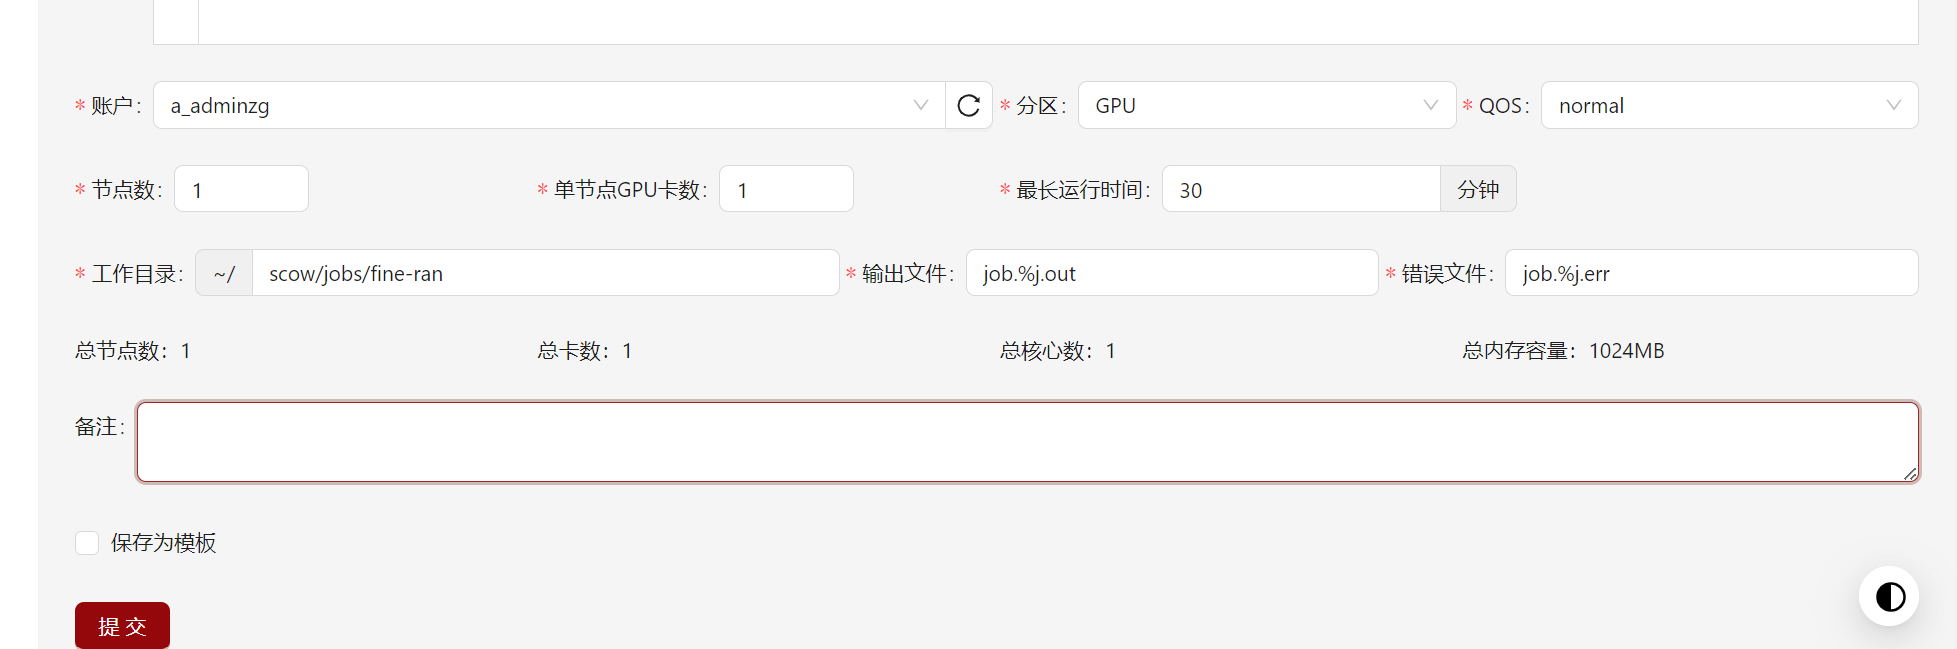
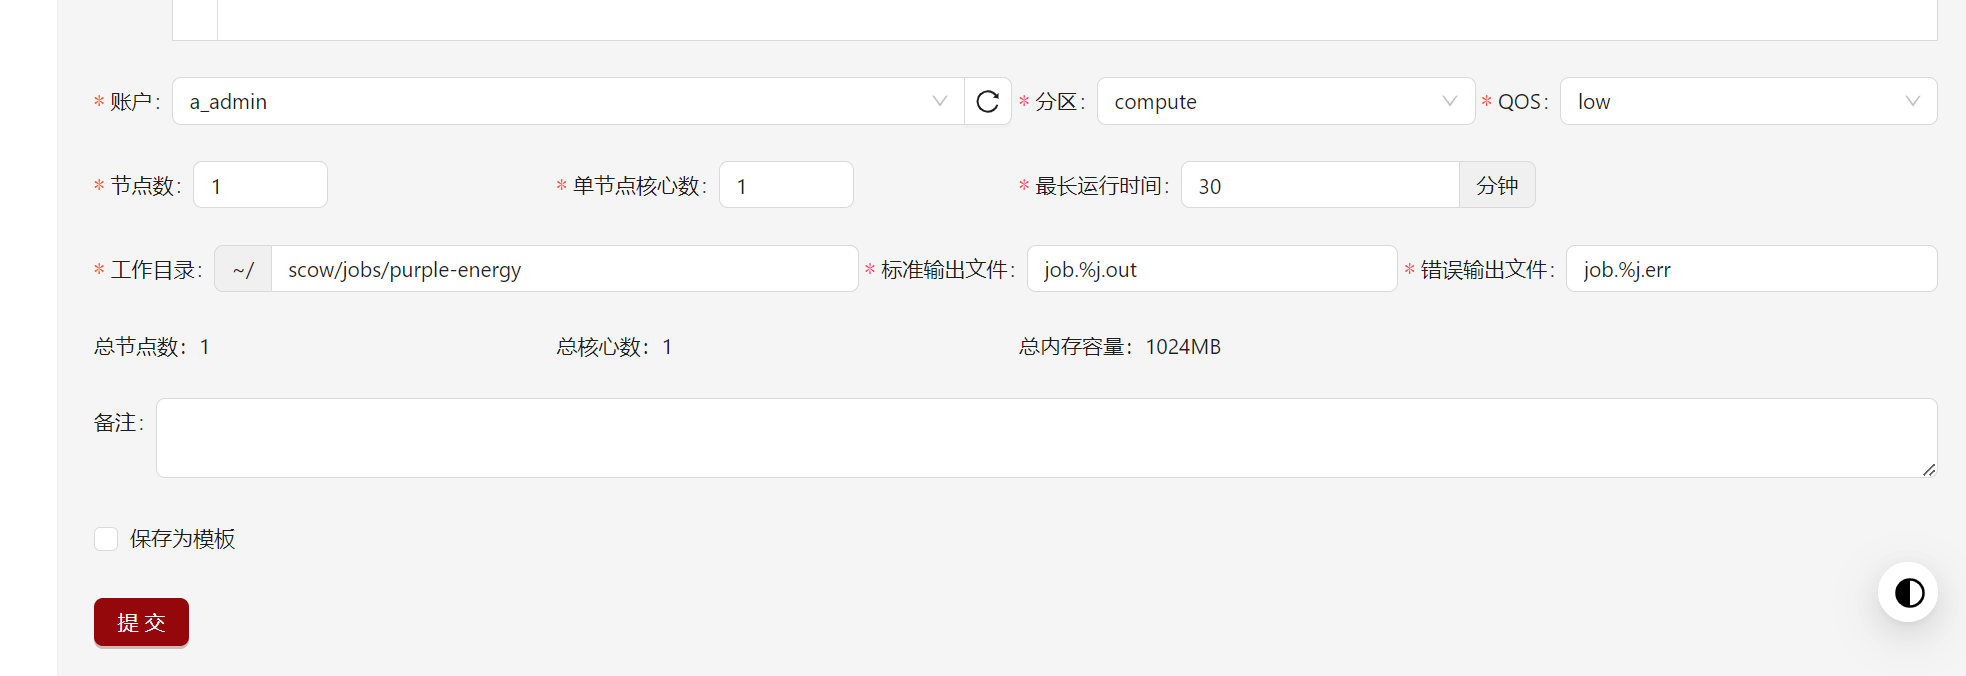
修改输出文件名

diff --git a/apps/portal-web/src/pageComponents/job/SubmitJobForm.tsx b/apps/portal-web/src/pageComponents/job/SubmitJobForm.tsx
@@ -293,12 +293,12 @@ export const SubmitJobForm: React.FC<Props> = ({ initial = initialValues }) => {
           </Form.Item>
         </Col>
         <Col span={24} sm={7}>
-          <Form.Item<JobForm> label="输出文件" name="output" rules={[{ required: true }]}>
+          <Form.Item<JobForm> label="标准输出文件" name="output" rules={[{ required: true }]}>
             <Input />
           </Form.Item>
         </Col>
         <Col span={24} sm={7}>
-          <Form.Item<JobForm> label="错误文件" name="errorOutput" rules={[{ required: true }]}>
+          <Form.Item<JobForm> label="错误输出文件" name="errorOutput" rules={[{ required: true }]}>
             <Input />
           </Form.Item>
         </Col>

diff --git a/docs/docs/guide/index.md b/docs/docs/guide/index.md
@@ -42,8 +42,8 @@ title: SCOW使用教程
 | 单节点GPU卡数 | 每个节点上申请的GPU卡数                                                  | 仅GPU分区展示 |
 | 最长运行时间  | 本次作业的最长计算时间                                                   |    -    |
 | 工作目录      | 指定作业相关文件的存储路径                                               |    -    |
-| 输出文件      | 指定作业输出的文件名                                                     |    -    |
-| 错误文件      | 指定作业输出错误的文件名                                                 |    -    |
+| 标准输出文件  | 指定作业标准输出文件的文件名                                              |    -    |
+| 错误输出文件  | 指定作业错误输出文件的文件名                                              |    -    |
 | 总节点数      | 申请的节点数                                                            | 总节点数=节点数   |
 | 总核心数      | 申请的总核心数                                                          |   总核心数（CPU分区）=节点数 \* 单节点核心数；总核心数（GPU分区）=节点数 \* 单节点总核心数 \*（单节点GPU卡数/单节点总GPU卡数）    |
 | 总卡数        | 申请的GPU卡总数                                                         |  仅GPU分区展示；总卡数 = 节点数 \* 单节点GPU卡数  |

diff --git a/docs/docs/info/portal/job.md b/docs/docs/info/portal/job.md
@@ -44,8 +44,8 @@ title: 作业
 | 单节点GPU卡数 | 每个节点上申请的GPU卡数                                                  | 仅GPU分区展示 |
 | 最长运行时间  | 本次作业的最长计算时间                                                   |    -    |
 | 工作目录      | 指定作业相关文件的存储路径                                               |    -    |
-| 输出文件      | 指定作业输出的文件名                                                     |    -    |
-| 错误文件      | 指定作业输出错误的文件名                                                 |    -    |
+| 标准输出文件  | 指定作业标准输出文件的文件名                                              |    -    |
+| 错误输出文件  | 指定作业错误输出文件的文件名                                              |    -    |
 | 总节点数      | 申请的节点数                                                            | 总节点数=节点数   |
 | 总核心数      | 申请的总核心数                                                          |   总核心数（CPU分区）=节点数 \* 单节点核心数；总核心数（GPU分区）=节点数 \* 单节点总核心数 \*（单节点GPU卡数/单节点总GPU卡数）    |
 | 总卡数        | 申请的GPU卡总数                                                         |  仅GPU分区展示；总卡数 = 节点数 \* 单节点GPU卡数  |
